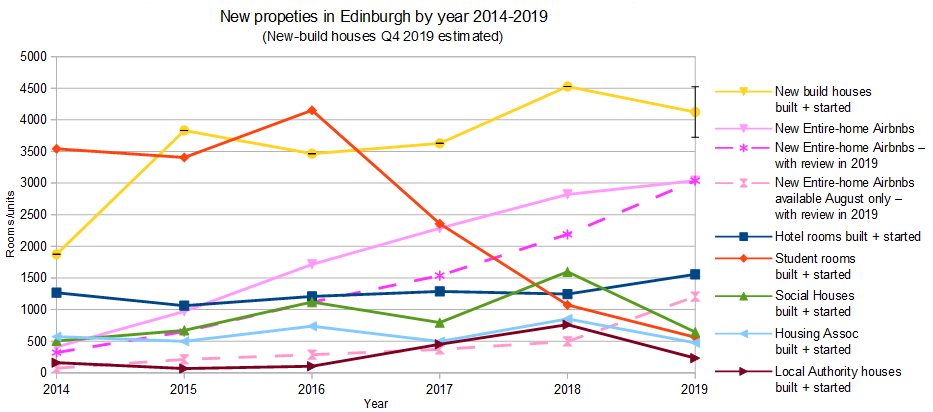
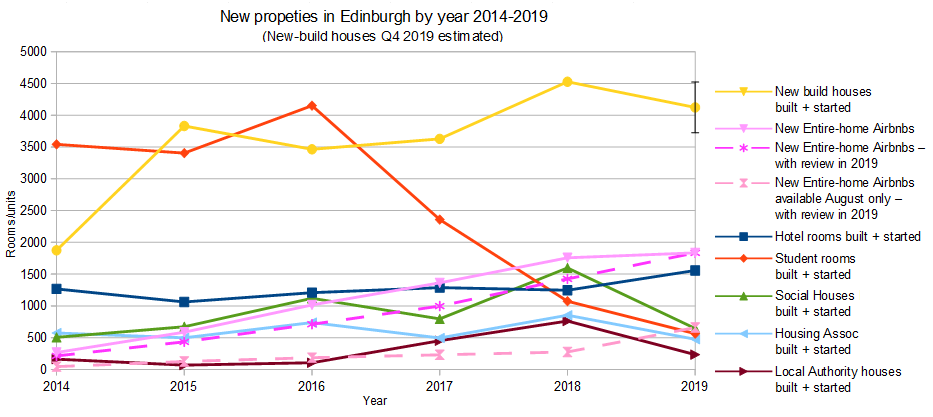
idk?

Changed region(s): [[0.0, 0.1748, 0.9946, 0.9903], [0.0, 0.0291, 0.746, 0.1456], [0.0, 0.1748, 0.0622, 0.233]]

diff --git a/switch-min.js b/switch-min.js
@@ -5,20 +5,21 @@ $jscomp.iteratorPrototype=function(a){$jscomp.initSymbolIterator();a={next:a};a[
 $jscomp.polyfill=function(a,b,c,d){if(b){c=$jscomp.global;a=a.split(".");for(d=0;d<a.length-1;d++){var e=a[d];e in c||(c[e]={});c=c[e]}a=a[a.length-1];d=c[a];b=b(d);b!=d&&null!=b&&$jscomp.defineProperty(c,a,{configurable:!0,writable:!0,value:b})}};$jscomp.polyfill("Array.prototype.keys",function(a){return a?a:function(){return $jscomp.iteratorFromArray(this,function(a){return a})}},"es6","es3");
 $jscomp.polyfill("Object.is",function(a){return a?a:function(a,c){return a===c?0!==a||1/a===1/c:a!==a&&c!==c}},"es6","es3");$jscomp.polyfill("Array.prototype.includes",function(a){return a?a:function(a,c){var b=this;b instanceof String&&(b=String(b));var e=b.length;for(c=c||0;c<e;c++)if(b[c]==a||Object.is(b[c],a))return!0;return!1}},"es7","es3");
 $jscomp.checkStringArgs=function(a,b,c){if(null==a)throw new TypeError("The 'this' value for String.prototype."+c+" must not be null or undefined");if(b instanceof RegExp)throw new TypeError("First argument to String.prototype."+c+" must not be a regular expression");return a+""};$jscomp.polyfill("String.prototype.includes",function(a){return a?a:function(a,c){return-1!==$jscomp.checkStringArgs(this,a,"includes").indexOf(a,c||0)}},"es6","es3");
-$jscomp.findInternal=function(a,b,c){a instanceof String&&(a=String(a));for(var d=a.length,e=0;e<d;e++){var f=a[e];if(b.call(c,f,e,a))return{i:e,v:f}}return{i:-1,v:void 0}};$jscomp.polyfill("Array.prototype.find",function(a){return a?a:function(a,c){return $jscomp.findInternal(this,a,c).v}},"es6","es3");$(document).ready(function(){mobile=isMobileDevice();detectURLparams();mobile&&$(".map_titles").addClass("map_titles_mob");trendstart?displayGraphs(null):displayInfo(null,noinfo);generateButtons()});
+$jscomp.findInternal=function(a,b,c){a instanceof String&&(a=String(a));for(var d=a.length,e=0;e<d;e++){var f=a[e];if(b.call(c,f,e,a))return{i:e,v:f}}return{i:-1,v:void 0}};$jscomp.polyfill("Array.prototype.find",function(a){return a?a:function(a,c){return $jscomp.findInternal(this,a,c).v}},"es6","es3");
+$(document).ready(function(){mobile=isMobileDevice();detectURLparams();$(".carousel").carousel({interval:!1});mobile&&$(".map_titles").addClass("map_titles_mob");trendstart?displayGraphs(null):displayInfo(null,noinfo);generateButtons()});
 var mobile=!1,startX,startY,baketrix={},onceLoaded,poly_fills=["howmany","roomprice","entireprice","room365usage","entire365usage"],map_method="area",current_area,markerClusterer,mapo,defaultLocation={lat:55.959720608,lng:-3.189344969},mlist,userCircle,showURL="https://psirens.github.io/airbnb-edb/",noinfo=!1,trendstart=!1;
 function setupDataset(a,b){if(document.URL&&(-1==document.URL.indexOf("127.0.0.1:8080")&&-1==document.URL.indexOf("192.168.0.2")&&-1==document.URL.indexOf("psirens")||-1==document.URL.indexOf("airbnb-edb")))return!1;current_area=null;null!=mapo&&(clearPolyAreas(),mapo.clearMarkers());cleanListingData(a,function(){cleanAreaData();generateAreaPolys("howmany");if(null!=onceLoaded){if("host"==onceLoaded.type&&(baketrix.hosts[onceLoaded.value]||baketrix.singlehosts[onceLoaded.value]))mapo.clearMarkers(),
 generateHostPins({host_id:onceLoaded.value});else if("area"==onceLoaded.type){var a=isAnArea(onceLoaded.value);a&&(map_method=onceLoaded.type,current_area=a,redoSearch())}else if("find"==onceLoaded.type&&""!=onceLoaded.value){a=onceLoaded.value;var b=a.split(",");a=b[0];b=b[1];map_method=onceLoaded.type;displayUserPosition(a,b);findListingsInUserCircle();mapFitBounds(!0)}else"search"==onceLoaded.type&&""!=onceLoaded.value?(a=onceLoaded.value,$("#search_listings").val(a),searchListings()):"listing"==
 onceLoaded.type&&baketrix.listings[onceLoaded.value]&&createPin(onceLoaded.value)&&(showMarkerDetails(onceLoaded.value,!0,"green"),mapFitBound(onceLoaded.value));onceLoaded=null}})}function clearPolyAreas(){$.each(baketrix.areas,function(a,b){null!=baketrix.areas[a].poly&&mapo.clearPolyArea(baketrix.areas[a].poly)})}
 function cleanListingData(a,b){baketrix={listings:{},type:{entire:[],room:[]},lastyear:[],thisyear:[],isavailable:[],isavailablefringe:[],isavailableroy:[],aug_reviews:[],areas:{},hosts:{},singlehosts:{},prolific_entire_hosts:{}};$.getJSON(sroot+a,function(a){if(1<a.listings.length&&null!=a.listings[0].id){var c={};$.each(a.listings,function(a,b){c[b.id]=b;delete c[b.id].id});baketrix.listings=c}else baketrix.listings=a.listings;var e=0;$.each(baketrix.listings,function(a,b){a=parseInt(a);"Entire home/apt"==
-b.room_type?baketrix.type.entire.push(a):baketrix.type.room.push(a);null==baketrix.singlehosts[b.host_id]&&(baketrix.singlehosts[b.host_id]=[]);baketrix.singlehosts[b.host_id].push(a);null==baketrix.hosts[b.host_id]&&(baketrix.hosts[b.host_id]=[]);null==baketrix.areas[b.neighbourhood]&&(baketrix.areas[b.neighbourhood]={list:[]});(0<getAvail(b.availability)||0<getAvail(b.availability,!0))&&baketrix.isavailable.push(a);0<getAvail(b.availability,!0)&&baketrix.isavailablefringe.push(a);null!=b.reviews&&
-null!=b.reviews.aug_reviews&&0<parseInt(b.reviews.aug_reviews)&&baketrix.aug_reviews.push(a);var c=(new Date).getFullYear();if(null!=b.last_review&&""!=b.last_review){var d=parseInt(b.last_review.substring(0,4));(d==c||null!=b.reviews&&b.reviews["2020_reviews"])&&baketrix.thisyear.push(a);(d==c-1||null!=b.reviews&&b.reviews["2019_reviews"])&&baketrix.lastyear.push(a)}else e++;baketrix.areas[b.neighbourhood].list.push(a);baketrix.hosts[b.host_id].push(a)});b();console.log("Norevs = #"+e)}).fail(function(a){console.log(a)})}
-function getPrice(a,b,c){return(c=void 0===c?!1:c)?a[c]:(void 0===b?0:b)?-1==a.true_aug?a.jan_avg_aug:a.true_aug:a.jan_avg_roy||a.true_roy?-1==a.true_roy?a.jan_avg_roy:a.true_roy:parseFloat(a.price)}function getAvail(a,b,c){b=void 0===b?!1:b;return(c=void 0===c?!1:c)?parseInt(a[c]):b?-1==a.true_aug?parseInt(a.aug):parseInt(a.true_aug):a.true_roy||a.roy?-1==a.true_roy?parseInt(a.roy):parseInt(a.true_roy):parseInt(a["365"])}
+b.room_type?baketrix.type.entire.push(a):baketrix.type.room.push(a);null==baketrix.singlehosts[b.host_id]&&(baketrix.singlehosts[b.host_id]=[]);baketrix.singlehosts[b.host_id].push(a);null==baketrix.hosts[b.host_id]&&(baketrix.hosts[b.host_id]=[]);null==baketrix.areas[b.neighbourhood]&&(baketrix.areas[b.neighbourhood]={list:[]});null!=b.availability&&((0<getAvail(b.availability)||0<getAvail(b.availability,!0))&&baketrix.isavailable.push(a),0<getAvail(b.availability,!0)&&baketrix.isavailablefringe.push(a));
+null!=b.reviews&&null!=b.reviews.aug_reviews&&0<parseInt(b.reviews.aug_reviews)&&baketrix.aug_reviews.push(a);var c=(new Date).getFullYear();if(null!=b.last_review&&""!=b.last_review){var d=parseInt(b.last_review.substring(0,4));(d==c||null!=b.reviews&&b.reviews["2020_reviews"])&&baketrix.thisyear.push(a);(d==c-1||null!=b.reviews&&b.reviews["2019_reviews"])&&baketrix.lastyear.push(a)}else e++;baketrix.areas[b.neighbourhood].list.push(a);baketrix.hosts[b.host_id].push(a)});b();console.log("Norevs = #"+
+e)}).fail(function(a){console.log(a)})}function getPrice(a,b,c){c=void 0===c?!1:c;return null==a?-5:c?a[c]:(void 0===b?0:b)?-1==a.true_aug?a.jan_avg_aug:a.true_aug:a.jan_avg_roy||a.true_roy?-1==a.true_roy?a.jan_avg_roy:a.true_roy:parseFloat(a.price)}function getAvail(a,b,c){b=void 0===b?!1:b;c=void 0===c?!1:c;return null==a?-5:c?parseInt(a[c]):b?-1==a.true_aug?parseInt(a.aug):parseInt(a.true_aug):a.true_roy||a.roy?-1==a.true_roy?parseInt(a.roy):parseInt(a.true_roy):parseInt(a["365"])}
 function cleanAreaData(){var a=baketrix.areas;$.each(a,function(b,c){a[b].entire=0;a[b].room=0;a[b].lyear=0;a[b].tyear=0;a[b].reviewst_2018=0;a[b].reviewst_2019=0;a[b].reviewst_2020=0;a[b].reviewed_2018=0;a[b].reviewed_2019=0;a[b].reviewed_2020=0;a[b].available=0;a[b].roomprice=0;a[b].entireprice=0;a[b].roomavailindex=0;a[b].entireavailindex=0;a[b].reviews_per_month_entire=0;a[b].reviews_per_month_room=0;var d=(new Date).getFullYear();$.each(c.list,function(c,f){null!=baketrix.listings[f]?(c=getPrice(baketrix.listings[f].prices),
 "Entire home/apt"==baketrix.listings[f].room_type?(a[b].entire++,a[b].entireprice+=c,a[b].entireavailindex+=getAvail(baketrix.listings[f].availability,!1)+getAvail(baketrix.listings[f].availability,!0),a[b].reviews_per_month_entire+=parseFloat(""!=baketrix.listings[f].reviews_per_month?baketrix.listings[f].reviews_per_month:0)):(a[b].room++,a[b].roomprice+=c,a[b].roomavailindex+=getAvail(baketrix.listings[f].availability,!1)+getAvail(baketrix.listings[f].availability,!0),a[b].reviews_per_month_room+=
 parseFloat(""!=baketrix.listings[f].reviews_per_month?baketrix.listings[f].reviews_per_month:0)),0<getAvail(baketrix.listings[f].availability)&&a[b].available++,c=parseInt(baketrix.listings[f].last_review.substring(0,4)),null!=baketrix.listings[f].last_review&&""!=baketrix.listings[f].last_review&&(c==d&&a[b].tyear++,c==d-1&&a[b].lyear++),null!=baketrix.listings[f].reviews&&(null!=baketrix.listings[f].reviews["2018_reviews"]&&(a[b].reviewst_2018+=baketrix.listings[f].reviews["2018_reviews"],a[b].reviewed_2018++),
 null!=baketrix.listings[f].reviews["2019_reviews"]&&(a[b].reviewst_2019+=baketrix.listings[f].reviews["2019_reviews"],a[b].reviewed_2019++),null!=baketrix.listings[f].reviews["2020_reviews"]&&(a[b].reviewst_2020+=baketrix.listings[f].reviews["2020_reviews"],a[b].reviewed_2020++))):console.log("err no listing? "+f)});a[b].entireprice=(a[b].entireprice/a[b].entire).toFixed(2);a[b].roomprice=(a[b].roomprice/a[b].room).toFixed(2);a[b].reviews_per_month_entire=a[b].reviews_per_month_entire.toFixed(2);
-a[b].reviews_per_month_room=a[b].reviews_per_month_room.toFixed(2);a[b].roomavailindex=(a[b].roomavailindex/(3.65*a[b].room)).toFixed(2);a[b].entireavailindex=(a[b].entireavailindex/(3.65*a[b].entire)).toFixed(2)});baketrix.areas=a}function GetMap(){mapo=new BingMap("#map",defaultLocation,this);setupDataset("jan_listings.json")}function initMap(){mapo=new GoogMap(document.getElementById("map"),defaultLocation,this);setupDataset("review_listings.json")}
+a[b].reviews_per_month_room=a[b].reviews_per_month_room.toFixed(2);a[b].roomavailindex=(a[b].roomavailindex/(3.65*a[b].room)).toFixed(2);a[b].entireavailindex=(a[b].entireavailindex/(3.65*a[b].entire)).toFixed(2)});baketrix.areas=a}function GetMap(){mapo=new BingMap("#map",defaultLocation,this);setupDataset("jan_listings.json")}function initMap(){mapo=new GoogMap(document.getElementById("map"),defaultLocation,this);setupDataset("mar_listings.json")}
 function getURLParameter(a){return decodeURIComponent(((new RegExp("[?|&]"+a+"=([^&;]+?)(&|#|;|$)")).exec(location.search)||[null,""])[1].replace(/\+/g,"%20"))||null}
 function detectURLparams(){var a=getURLParameter("host"),b=getURLParameter("room"),c=getURLParameter("area"),d=getURLParameter("loc"),e=getURLParameter("search"),f=getURLParameter("noi"),g=getURLParameter("trends");null!=a?onceLoaded={type:"host",value:a}:null!=b?onceLoaded={type:"listing",value:b}:null!=c?onceLoaded={type:"area",value:c}:null!=d?onceLoaded={type:"find",value:d}:null!=e&&(onceLoaded={type:"search",value:e});null!=f&&(noinfo=!0);null!=g&&(trendstart=!0)}
 function isAnArea(a){var b=Object.keys(baketrix.areas);return b.length>a&&null!=b[a]?b[a]:!1}function findWhichArea(a,b){var c=null;$.each(baketrix.areas,function(d,e){if(null!=e.poly&&mapo.polyContains(e.poly,a,b))return console.log("you are within: "+d),c=d});return c}function displayUserPosition(a,b){mapo.createUserCircle(a,b)&&$("#button_find_nearme").removeClass("hidden")}function updateUserCircle(a){mapo.updateUserCircleLocation(a);findListingsInUserCircle();mapFitBounds(!0)}
@@ -74,5 +75,5 @@ function showMarkerDetails(a,b,c,d){b=void 0===b?!1:b;c=void 0===c?null:c;d=void
 e.host_name+" (#"+(null!=baketrix.hosts[e.host_id]?baketrix.hosts[e.host_id].length:1)+")</div>");c.append("<div class='col-1'>"+("Entire home/apt"==e.room_type?"<img src='./images/home-16.png' title='Entire'>":"<img src='./images/bed-16.png' title='Room'>")+"</div>");c.append("<div class='col-1'>"+e.beds+"</div>");a=$("#toggle_review_heading").html();a="Reviews total"==a?e.number_of_reviews:"Reviews 2019+2020"==a?e.reviews["2019_reviews"]+e.reviews["2020_reviews"]:"Reviews 2019"==a?e.reviews["2019_reviews"]:
 e.reviews["2020_reviews"];a=null==a?0:a;if(b){var g=Math.floor((getPrice(e.prices,b)-getPrice(e.prices))/getPrice(e.prices)*100);c.append("<div class='col-1'>&pound;"+getPrice(e.prices,b)+"<span class='tiny"+(0<g?"":" pricedown")+"'>"+g+"%</span></div>");g=getAvail(e.availability,b,"aug");var h=getAvail(e.availability,b);c.append("<div class='col-1'>"+g+"/"+h+" </div>");c.append("<div class='col-1 numreviews'>"+a+"</div>");c.append("<div class='col-1'>"+e.reviews.aug_reviews+"</div>")}else g=getAvail(e.availability,
 b,"aug")+getAvail(e.availability,b,"roy"),h=getAvail(e.availability,!0)+getAvail(e.availability,!1),c.append("<div class='col-1'>&pound;"+getPrice(e.prices,b)+"</div>"),c.append("<div class='col-1'>"+g+" /"+h+"</div>"),c.append("<div class='col-1 numreviews'>"+a+"</div>"),c.append("<div class='col-1'>"+e.reviews_per_month+"</div>");c.append("<div class='col findinmap' title='Find in map'>"+e.last_review+"</div>");d?f.prepend(c):f.append(c)}
-function displayInfo(a,b){1!=(void 0===b?!1:b)&&$("#loadingModal").modal({})}function displayGraphs(a,b){1!=(void 0===b?!1:b)&&$("#graphModal").modal({backdrop:"static"})}function isMobileDevice(){return"undefined"!==typeof window.orientation||-1!==navigator.userAgent.indexOf("IEMobile")}function simulateClick(a){if(mobile){var b=jQuery.Event("touchend",{pageX:50,pageY:50,fake:!0});a.trigger(b)}else a.click()}
+function displayInfo(a,b){1!=(void 0===b?!1:b)&&$("#loadingModal").modal({})}function displayGraphs(a,b){1!=(void 0===b?!1:b)&&$("#graphModal").modal({})}function isMobileDevice(){return"undefined"!==typeof window.orientation||-1!==navigator.userAgent.indexOf("IEMobile")}function simulateClick(a){if(mobile){var b=jQuery.Event("touchend",{pageX:50,pageY:50,fake:!0});a.trigger(b)}else a.click()}
 function getCoord(a,b){return/touch/.test(a.type)?(a.originalEvent||a).changedTouches[0]["page"+b]:a["page"+b]}function doClick(a,b){if(mobile)a.on("touchstart",function(a){startX=getCoord(a,"X");startY=getCoord(a,"Y");console.log(startX+","+startY)}).on("touchend",function(a){console.log(a);(null!=a.fake||4>Math.abs(getCoord(a,"X")-startX)&&4>Math.abs(getCoord(a,"Y")-startY))&&b.call(this,a)});else a.on("click",b)};

diff --git a/index.html b/index.html
@@ -25,7 +25,7 @@
 <body>
 	<div class='container-fluid'>
 		<div class='row toprow jusbet'>
-			<div class='col-2'><button id='button_find_me' class='btn-danger'>Find near me</button><button id='button_graphs' class='btn-info'>Airbnb trends</button></div>
+			<div class='col-2'><button id='button_find_me' class='btn-danger'>Find near me</button><button id='button_graphs' class='btn-info'>Trends</button></div>
 			<div class='col-3'>
 				<div class='row'><div class='title' title="Viewing method">Pins</div></div>
 				<div class='row'><select name='map_method' id='map_method'><option value='area' selected='selected'>Area click</option><option value='all'>Show all</option><option value='heat'>Heat map</option></select></div>
@@ -63,7 +63,7 @@
 			<div class='col'><button id='button_prolific_hosts' class='btn-warning'>Prolific hosts</button><div id='results_breadcrumb'>Click map area to show filtered list.</div></div>
 			<div class='col-6' id="map_results_hidden"></div>
 			<div class='col' id="map_most_buttons">
-				<div class='row juseven'><div class='title'>Highlight</div><div>Jan 2020 v0.3 <img id='button_info' class='clickable' src='./images/info.png'></div></div>
+				<div class='row juseven'><div class='title'>Highlight</div><div>Mar 2020 v0.4 <img id='button_info' class='clickable' src='./images/info.png'></div></div>
 				<div class='row juseven'>
 					<button id='most_used' class='highlight_orange'>Popular</button>
 					<button id='most_largest' class='highlight_blue'>Large</button>
@@ -95,7 +95,7 @@
 				</button>
 			  </div>
 			  <div class="modal-body">
-				  <div id="graphCarouselIndicators" class="carousel slide" data-interval="false">
+				  <div id="graphCarouselIndicators" class="carousel slide">
 					  <ol class="carousel-indicators">
 						<li data-target="#graphCarouselIndicators" data-slide-to="0" class="active"></li>
 						<li data-target="#graphCarouselIndicators" data-slide-to="1"></li>
@@ -117,7 +117,7 @@
 							<div class='pagenum'>2 of 4</div>
 						</div>
 						<div class="carousel-item">
-							<p>There were over 3000 newly listed entire-home Airbnbs in Edinburgh in 2019 (1/3 of which were available for the Fringe only), continuing the upward trend of the past 5 years. Demand for visitor accommodation has never been higher and continues to outstrip the supply of hotel rooms being built.</p>
+							<p>There were around 2000 newly listed entire-home Airbnbs in Edinburgh in 2019 (1/3 of which were available during the Fringe only), continuing the upward trend of the past 5 years. Demand for visitor accommodation has never been higher and continues to outstrip the supply of hotel rooms being built.</p>
 							<p>Losses of homes in the capital to Airbnb for tourism can be said to be removing a large chunk of the existing housing stock, thus damaging the government's target of building new housing to meet demand from the next generation of Scots families.</p>
 							<p><img class='fullwidth' src='./images/new_properties_yearonyear.png'/></p>
 							<p class='small'>Dashed lines indicate Airbnbs new in that year but excluding those that since ceased (no reviews in 2019)</p>
@@ -125,8 +125,9 @@
 							<div class='pagenum'>3 of 4</div>
 						</div>
 						<div class="carousel-item">
-							<p>Looking to the future, were entire-home STLs restricted totally, <b>5000 existing properties</b> could be freed for use by long-term residents or students. However it would create a massive shortfall of 15,000 beds for visitors, the peak in Summer, comparable to the entire 2019 capacity of hotels. Hotels of course have a massively higher guest-density achieving that number using <b>97% less properties</b>.</p>
-							<p>With hotel rooms consistently around 80% occupancy for 7 months in the year, urban space for building a dozen new hotels or student halls would have to be found just to meet current peak tourist demand. Far in excess of the estimated 8000 increase in hotel room capacity slated for 2030, with Edinburgh airport expecting 5 million more tourists annually by then. The pressure will be on the Council from both sides in the coming years to provide extra capacity for tourism while cracking down on these antisocial STL businesses.</p>
+							<p>Looking to the future, were entire-home AirBnBs restricted absolutely, <b>5000 existing properties</b> could be freed for use by long-term residents or students. However it would create a massive shortfall of 15,000 beds for visitors, the peak in Summer, comparable to the entire 2019 capacity of hotels. Hotels of course have a massively higher guest-density achieving that number using <b>97% less properties</b>.</p>
+							<p>Remember AirBnB is not the sole competitor in this market, and the data here does not indicate additional STL properties that are solely listed on homeaway,booking.com,flipkey,vrbo,homestay etc.</p>
+							<p>With hotel rooms consistently around 80% occupancy for 7 months in the year, urban space for building a dozen new hotels or dedicate student halls to visitors in summer, just to meet current tourist demand. Far in excess of the estimated 8000 bed increase in hotel room capacity slated for 2030, with Edinburgh airport expecting 5 million more tourists annually by then. The pressure will be on the Council from both sides in the coming years to provide extra capacity for tourism while cracking down on these antisocial STL businesses.</p>
 							<p><img class='fullwidth' src='./images/visitor_accomodation.png'/></p>
 							<p><ul class='refs'><li><a href='http://insideairbnb.com/edinburgh/' target='_blank'>[1]insideAirBnB</a></li><li><a href='https://www.gov.scot/publications/housing-statistics-for-scotland-new-house-building/' target='_blank'>[2]Housing statistics quarterly Mar 2020</a></li><li><a href='https://www.edinburgh.gov.uk/downloads/file/26143/visitor-accommodation' target='_blank'>[3]GVA/Ryden Hotels report 2019</a></li><li><a href='https://www.bbc.co.uk/news/uk-scotland-scotland-business-51663643' target='_blank'>[4]Colliers Intl Hotel report</a></li><li><a href='https://www.edinburgh.gov.uk/downloads/file/26322/hotel-development-schedule-2018' target='_blank'>[5]City of Edinburgh Hotel Development Schedule 2018</a></li><li><a href='https://rupparti.wordpress.com/2018/03/11/edinburgh-student-accommodation-sources/' target='_blank'>[6]Student accommodation figures</a></li></ul></p>
 							<div class='pagenum'>4 of 4</div>
@@ -158,14 +159,14 @@
 				</button>
 			  </div>
 			  <div class="modal-body">
-				  <div id="carouselExampleIndicators" class="carousel slide" data-interval="false">
+				  <div id="carouselExampleIndicators" class="carousel slide">
 					  <ol class="carousel-indicators">
 						<li data-target="#carouselExampleIndicators" data-slide-to="0" class="active"></li>
 						<li data-target="#carouselExampleIndicators" data-slide-to="1"></li>
 					  </ol>
 					  <div class="carousel-inner">
 						<div class="carousel-item active">
-							<p>This website allows you to visualise and help identify the Airbnb lets near your home. <a href='#' id='ddisc'>Data sourced</a> from <a href='http://insideAirbnb.com/edinburgh/' target='_blank'>insideAirbnb.com</a> (Jan 2020)</p>
+							<p>This website allows you to visualise and help identify the Airbnb lets near your home. <a href='#' id='ddisc'>Data sourced</a> from <a href='http://insideAirbnb.com/edinburgh/' target='_blank'>insideAirbnb.com</a> (Mar 2020)</p>
 							
 							<div class='disclaimer hidden'>
 								<p>*The data is incomplete but can still give an accurate picture of short-term let proliferation. Airbnb make it difficult to identify the location and nature of homes they list for both user privacy and covertness. Exact locations are accurate to 300m. Prices have been averaged over the year, as they vary widely due to demand, date, availability, obscurities (eg. hosts postponing renting by setting high prices). Available days are subject to change as hosts update calendars frequently and can be removed or added after the dataset snapshot was taken. Days available in previous months but no longer could have been booked by guests, the date past unoccupied or simply been removed. Past reviews per month therefore seems the most useful occupancy metric, despite some guests not leaving reviews, but may seem skewed for hosts who only offer rent during Summer months.</p>
